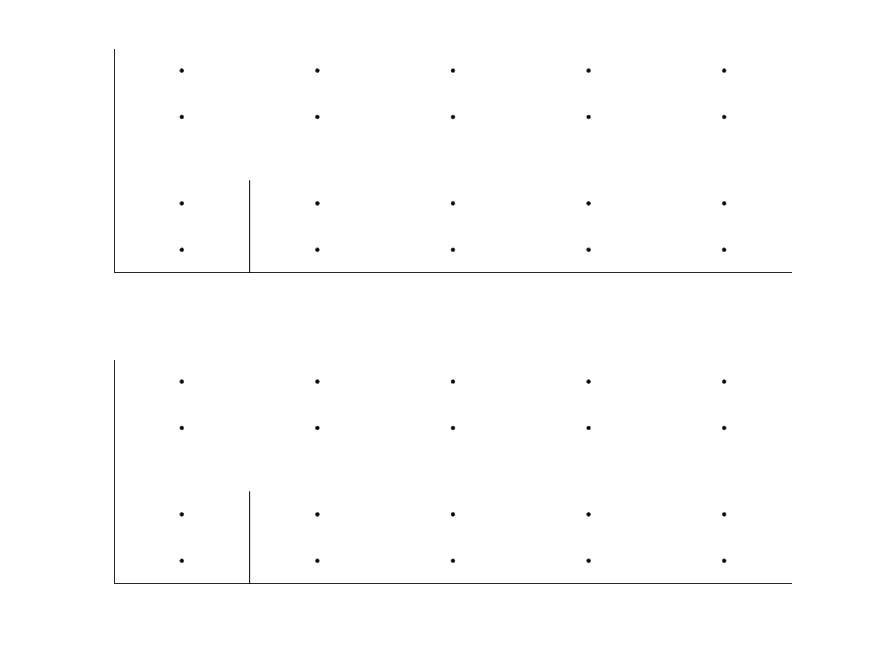
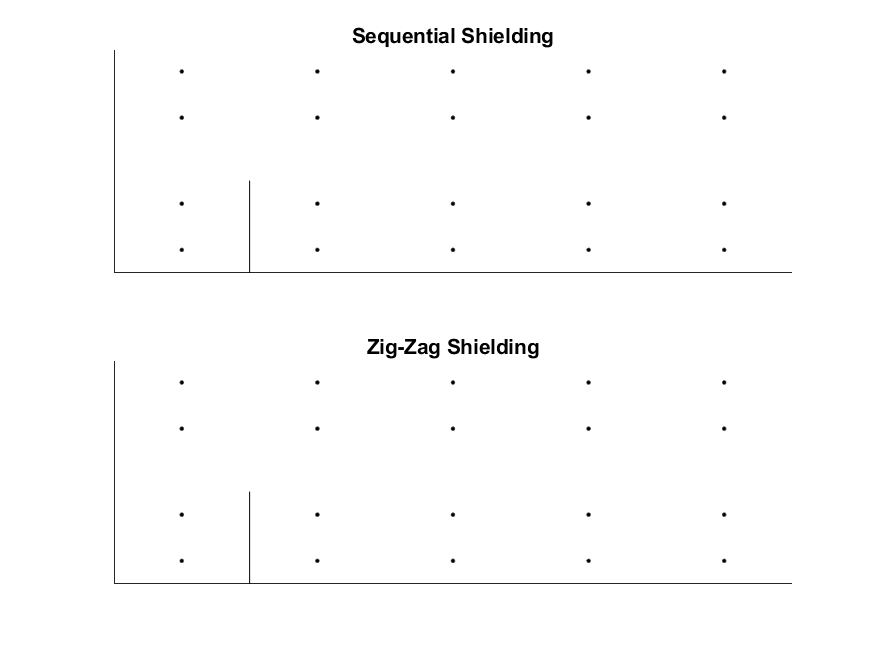
README removed unnecessary plots, removed bus references, added results. Added titles to gif

Changed region(s): [[0.4011, 0.0305, 0.648, 0.0915], [0.4011, 0.5183, 0.6171, 0.5488]]

diff --git a/README.md b/README.md
@@ -7,7 +7,7 @@ This repository is Cardiff University MATHBIO's entry to <a href="https://digita
 
 ## RESULT: The seating optimiser app is published <a href="https://lucyhenley.shinyapps.io/CardiffMATHBIO_NERCHackathonTwo_PublicTransport/" target="_blank">**here**</a>.
 
-### Goal: Reduce public transport emissions per person by creating a tool that will present an optimal seating arrangement under social distancing.
+
 
 ---
 
@@ -24,17 +24,15 @@ This repository is Cardiff University MATHBIO's entry to <a href="https://digita
 
 ---
 
-![Emissions per passenger](https://github.com/Lucyhenley/CardiffMATHBIO_NERCHackathonTwo_PublicTransport/blob/master/figs/screenshot.png?raw=true)
-*An app was produced which derives the seating capacity of a train under specific conditions.*
 
 
-
-<p float="left">
-<img  src="https://github.com/Lucyhenley/CardiffMATHBIO_NERCHackathonTwo_PublicTransport/blob/master/figs/screenshot.png?raw=true" alt="App Screenshot" class = "center" width="300" height = "300"/>
- <img  src="https://github.com/Lucyhenley/CardiffMATHBIO_NERCHackathonTwo_PublicTransport/blob/master/figs/max_capacity.png?raw=true" alt="Train capacity" class = "center" width="300" height = "300"/>
+<p float="center">
+<img  src="https://github.com/Lucyhenley/CardiffMATHBIO_NERCHackathonTwo_PublicTransport/blob/master/figs/screenshot.png?raw=true" alt="App Screenshot" class = "center" width="440" height = "400"/>
+ <img  src="https://github.com/Lucyhenley/CardiffMATHBIO_NERCHackathonTwo_PublicTransport/blob/master/figs/max_capacity.png?raw=true" alt="Train capacity" class = "center" width="440" height = 400/>
 </p>
-<img src="https://github.com/Lucyhenley/CardiffMATHBIO_NERCHackathonTwo_PublicTransport/blob/master/figs/emissions.png?raw=true" alt="Emissions per passenger" width="600" height = "300"/>
-
+<p align="center">
+<img src="https://github.com/Lucyhenley/CardiffMATHBIO_NERCHackathonTwo_PublicTransport/blob/master/figs/train_emissions.png?raw=true" alt="Emissions per passenger" width="450" height = "400"/>
+</p>
 
 
 *A screenshot of the app, the effect of social distancing measures on the passenger capacity and the emissions per passenger of a variety of modes of transport*
@@ -117,9 +115,10 @@ Car emission data is taken from measurements of the emissions generated by cars 
 As a worst case scenario, we assume that all passengers who cannot fit onto a train would instead choose to commute by car, meaning that they now contribute to the car emission data. Based on these assumptions, we can plot the emissions per passenger for a train, a small car and a large car, and thus effectively denote how many passengers are required on a mode of public transport to make them more efficient with regards to emissions than a method of personal transport.
 
 
-<img src="https://github.com/Lucyhenley/CardiffMATHBIO_NERCHackathonTwo_PublicTransport/blob/master/figs/emissions.png?raw=true" alt="Emissions per passenger" width="1000"/>
+Train travel is always more efficient than using large cars, but you need a minimum capacity of 17 people per carriage on a train to make them produce less emissions per person than small cars, and 10 to produce less emissions than a large car.
 
-*The emissions per person for several modes of transport. At least 20 passengers are needed on a train, and around 10 on a bus, to make it more efficient than each taking their own large car.*
+The minimum capacity of a train carriage, with no shielding and a maximum social distancing radius of 2 meters, is 16 passengers, so train travel is always more efficient than the use of large cars, but shielding or a reduction in social distancing radius is needed to make train travel more efficient than the use of small cars.
+
 
 ---
 ## Assumptions
